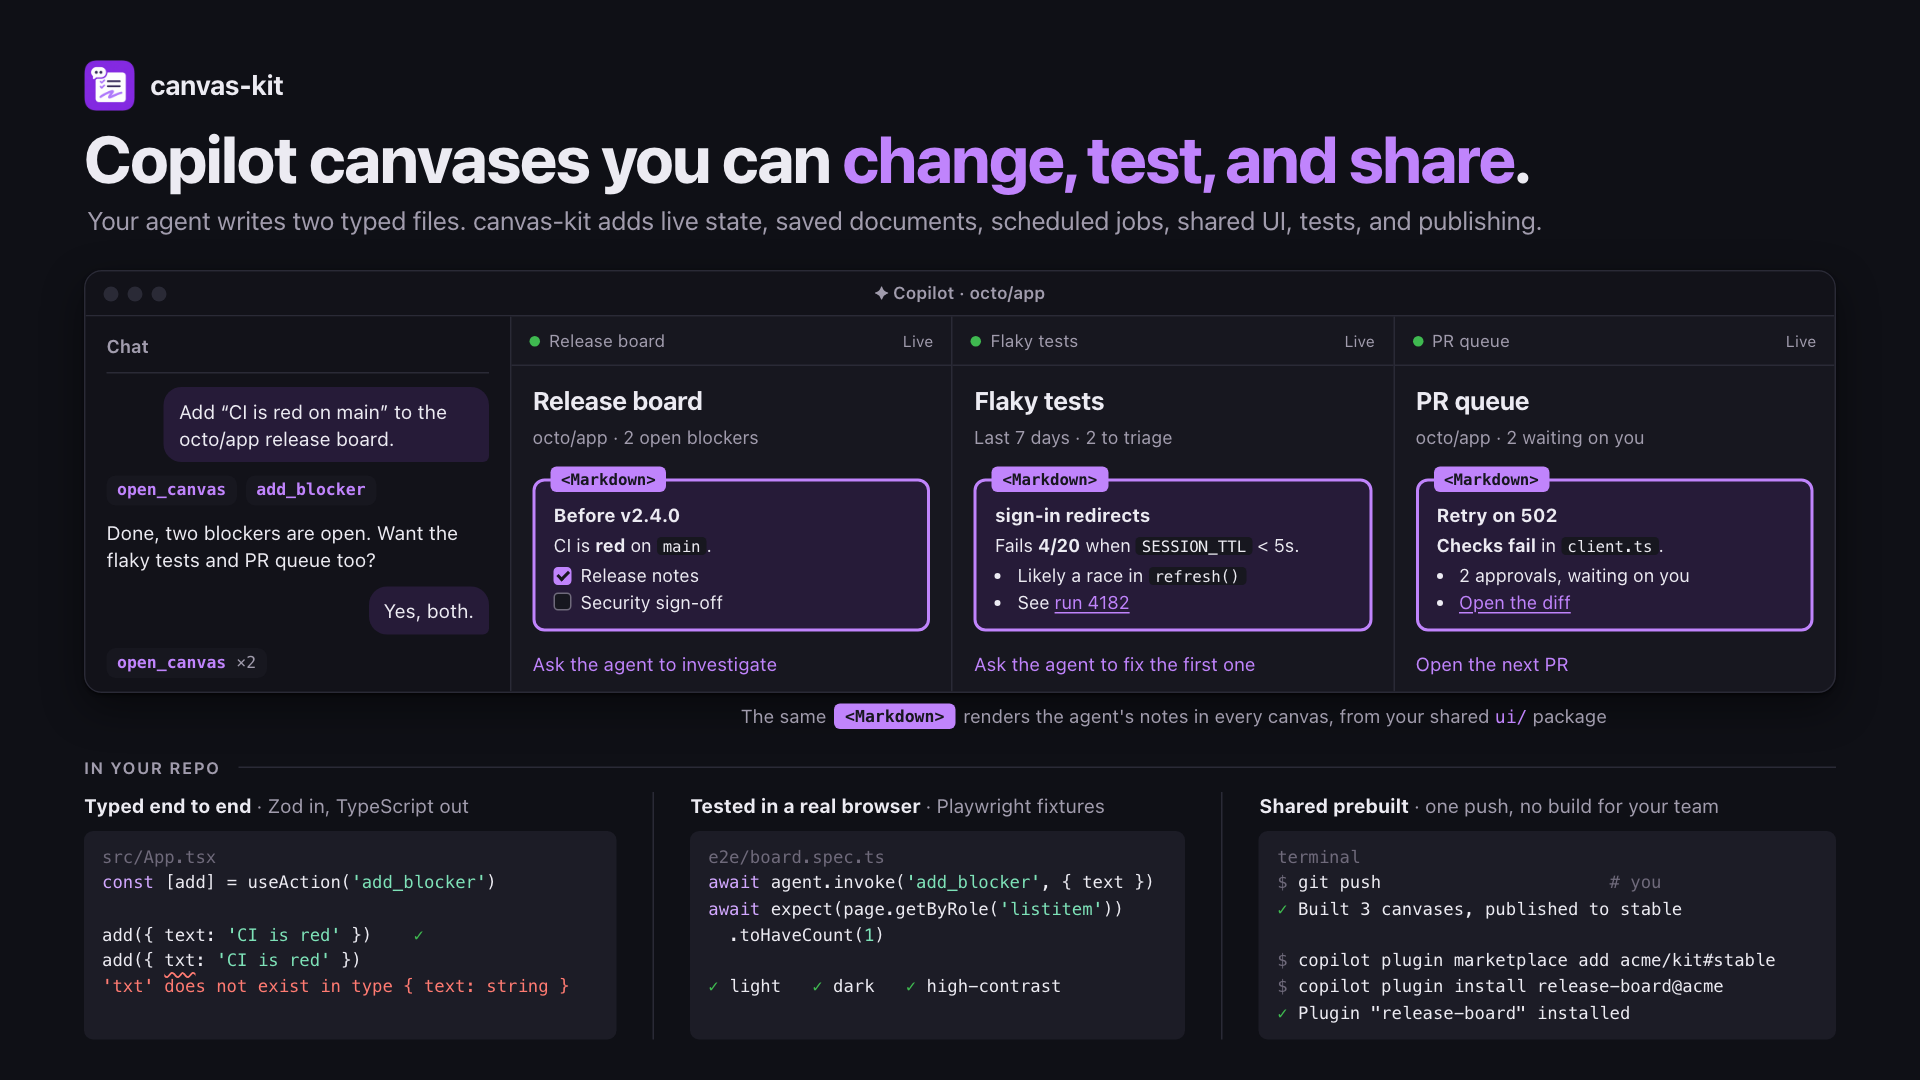
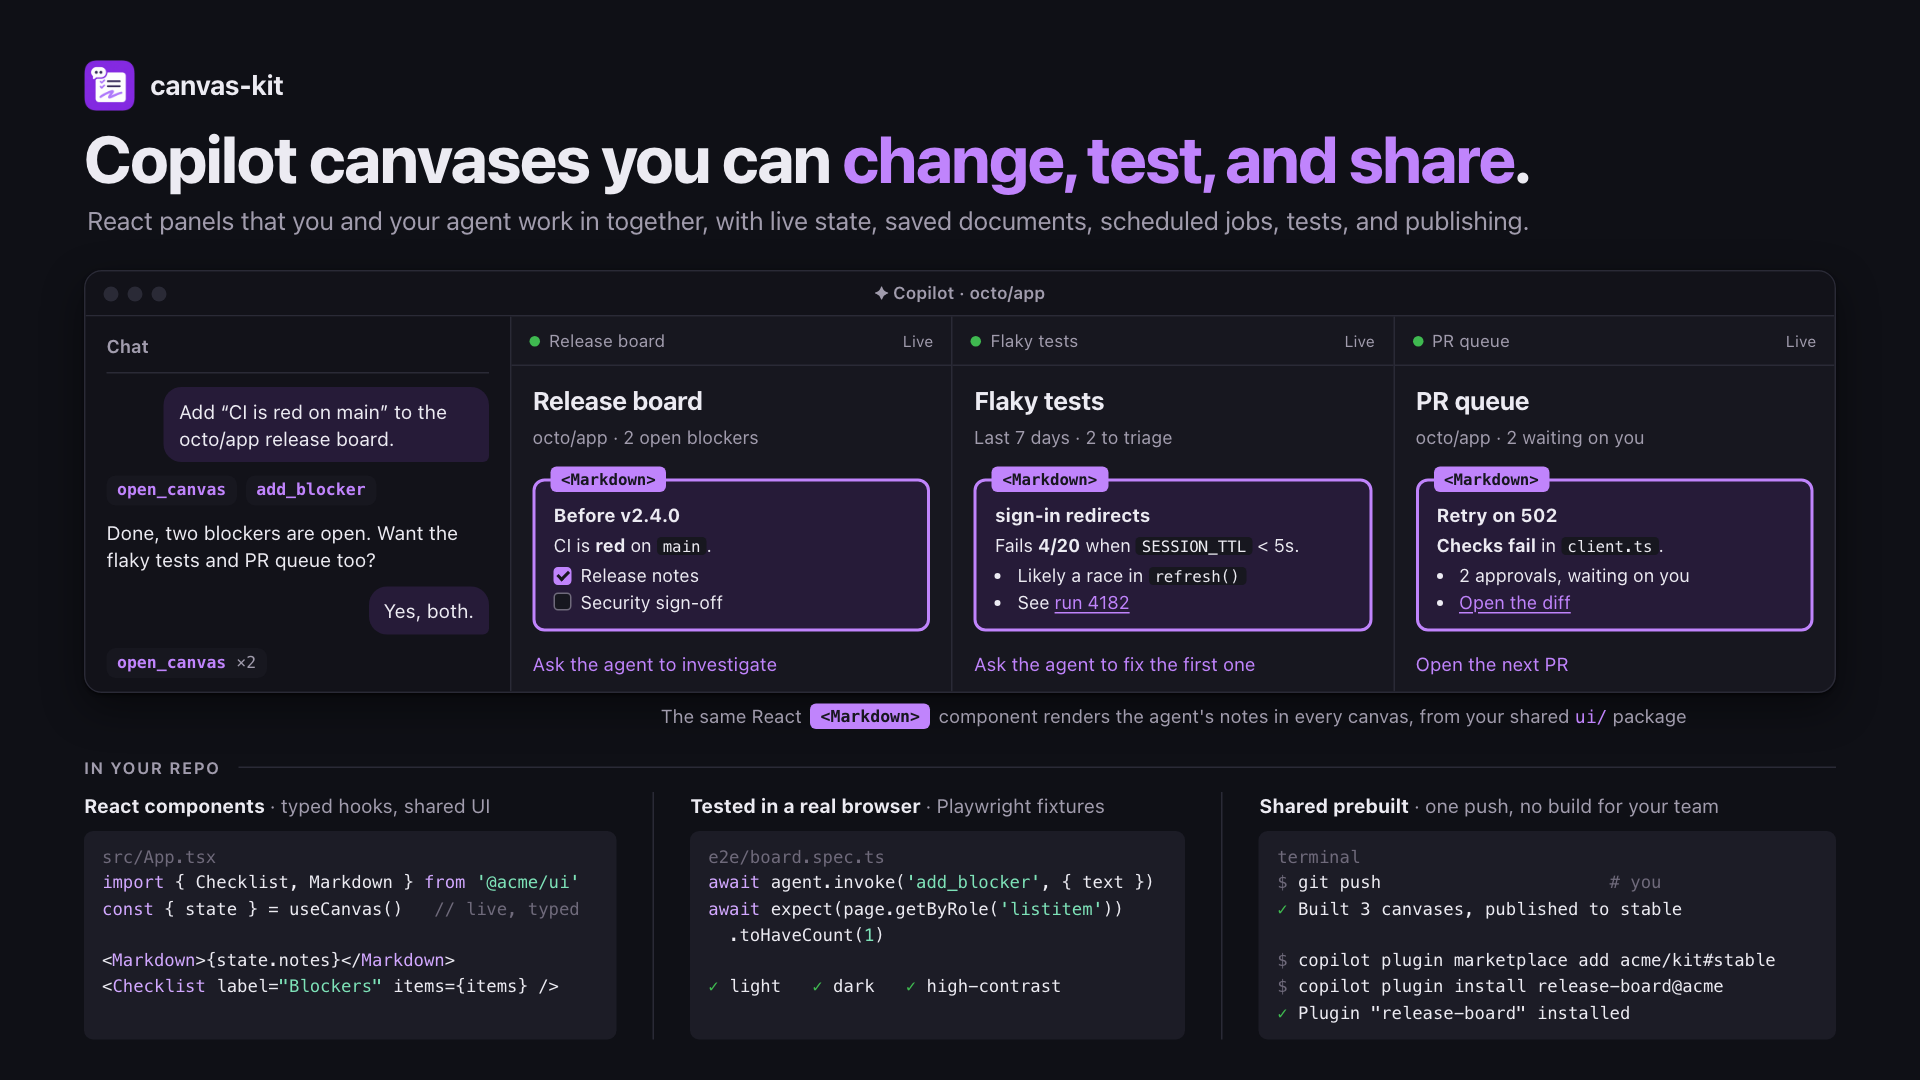
Lead the hero with React components (#7)
The hero's first "In your repo" tile showed a type error, which made
typing look like the headline feature. This leads with React instead.

- **First tile:** now "React components · typed hooks, shared UI". It
shows `src/App.tsx` importing `Checklist` and `Markdown` from a shared
ui package, reading live state with `useCanvas()`, and rendering them.
- **Subtitle:** "React panels that you and your agent work in together,
with live state, saved documents, scheduled jobs, tests, and
publishing."
- **Caption:** "The same React `<Markdown>` component renders the
agent's notes in every canvas…"
- Re-rendered both themes with `pnpm hero`, removed the now-unused error
styles, and updated the README alt text.

*🤖 Authored with GitHub Copilot on behalf of @rwoll.*

diff --git a/docs/hero/hero.html b/docs/hero/hero.html
@@ -19,7 +19,6 @@
         --accent-line: #c9a3f5;
         --code: #f6f3fb;
         --ok: #1a7f37;
-        --err: #cf222e;
         --shadow: 0 1px 2px rgba(23, 21, 28, 0.05), 0 10px 28px rgba(60, 30, 110, 0.09);
         --kw: #8a2be2;
         --str: #0a6e5c;
@@ -38,7 +37,6 @@
         --accent-line: #6d42a3;
         --code: #1c1c26;
         --ok: #3fb950;
-        --err: #ff7b72;
         --shadow: 0 1px 2px rgba(0, 0, 0, 0.5), 0 10px 28px rgba(0, 0, 0, 0.45);
         --kw: #d2a8ff;
         --str: #7ee2b8;
@@ -432,19 +430,12 @@
       .ok {
         color: var(--ok);
       }
-      .squiggle {
-        text-decoration: underline wavy var(--err);
-        text-underline-offset: 3px;
-      }
-      .error {
-        color: var(--err);
-      }
     </style>
   </head>
   <body>
     <div class="brand"><img src="../logo.png" alt="" />canvas-kit</div>
     <h1>Copilot canvases you can <em>change, test, and share</em>.</h1>
-    <p class="sub">Your agent writes two typed files. canvas-kit adds live state, saved documents, scheduled jobs, shared UI, tests, and publishing.</p>
+    <p class="sub">React panels that you and your agent work in together, with live state, saved documents, scheduled jobs, tests, and publishing.</p>
 
     <section class="window" aria-label="A Copilot window">
       <div class="titlebar"><span class="light"></span><span class="light"></span><span class="light"></span><span class="title">✦ Copilot · octo/app</span></div>
@@ -512,18 +503,18 @@
       </div>
     </section>
 
-    <p class="caption">The same <span class="pill mono">&lt;Markdown&gt;</span> renders the agent's notes in every canvas, from your shared <span class="mono">ui/</span> package</p>
+    <p class="caption">The same React <span class="pill mono">&lt;Markdown&gt;</span> component renders the agent's notes in every canvas, from your shared <span class="mono">ui/</span> package</p>
 
     <p class="repo-label">In your repo</p>
     <section class="repo">
       <article class="feature">
-        <h4>Typed end to end <span>· Zod in, TypeScript out</span></h4>
+        <h4>React components <span>· typed hooks, shared UI</span></h4>
 <pre class="mono"><span class="file">src/App.tsx</span>
-<span class="k">const</span> [add] = useAction(<span class="s">'add_blocker'</span>)
+<span class="k">import</span> { Checklist, Markdown } <span class="k">from</span> <span class="s">'@acme/ui'</span>
+<span class="k">const</span> { state } = useCanvas()   <span class="c">// live, typed</span>
 
-add({ text: <span class="s">'CI is red'</span> })    <span class="ok">✓</span>
-add({ <span class="squiggle">txt</span>: <span class="s">'CI is red'</span> })
-<span class="error">'txt' does not exist in type { text: string }</span></pre>
+&lt;<span class="k">Markdown</span>&gt;{state.notes}&lt;/<span class="k">Markdown</span>&gt;
+&lt;<span class="k">Checklist</span> label=<span class="s">"Blockers"</span> items={items} /&gt;</pre>
       </article>
       <article class="feature">
         <h4>Tested in a real browser <span>· Playwright fixtures</span></h4>

diff --git a/README.md b/README.md
@@ -14,7 +14,7 @@ and actions in TypeScript, UI in React, and canvas-kit handles the rest.
 
 <picture>
   <source media="(prefers-color-scheme: dark)" srcset="docs/hero-dark.png">
-  <img alt="A Copilot window: the chat opens three canvases (Release board, Flaky tests, PR queue) that each render the agent's notes with the same shared React Markdown component. Below, in your repo: a type error caught at compile time, a Playwright test passing in light, dark, and high-contrast, and git push publishing prebuilt canvases that a teammate installs with two commands." src="docs/hero-light.png">
+  <img alt="A Copilot window: the chat opens three canvases (Release board, Flaky tests, PR queue) that each render the agent's notes with the same shared React Markdown component. Below, in your repo: a React component that imports Markdown and Checklist from a shared ui package and reads live state with a typed useCanvas hook, a Playwright test passing in light, dark, and high-contrast, and git push publishing prebuilt canvases that a teammate installs with two commands." src="docs/hero-light.png">
 </picture>
 
 ## What you get
